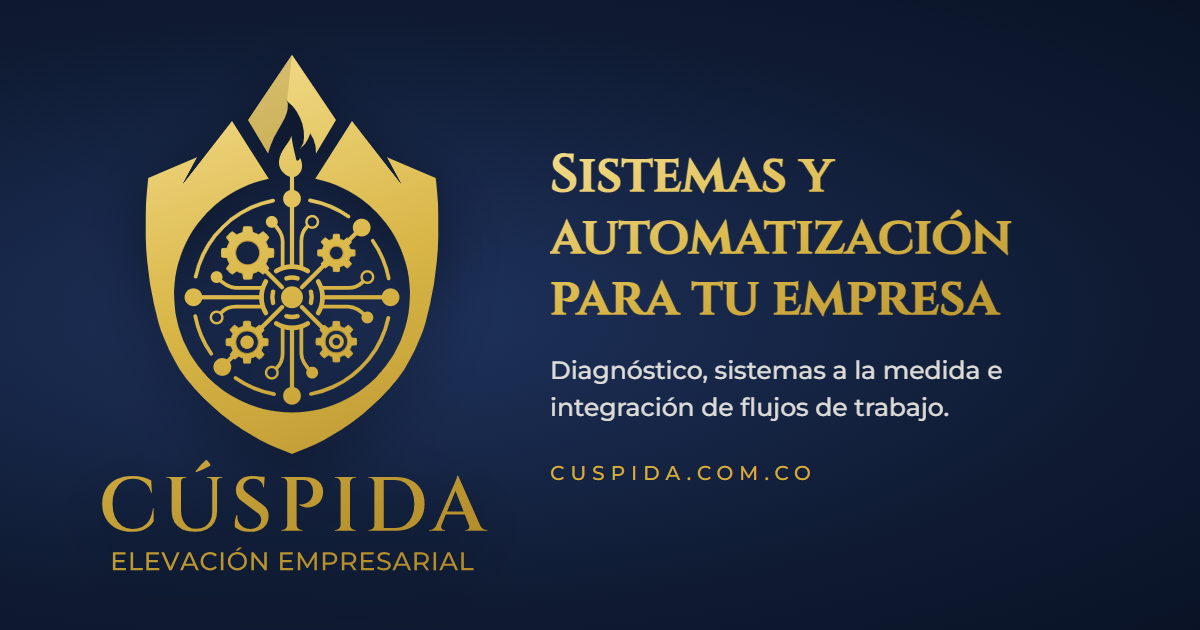
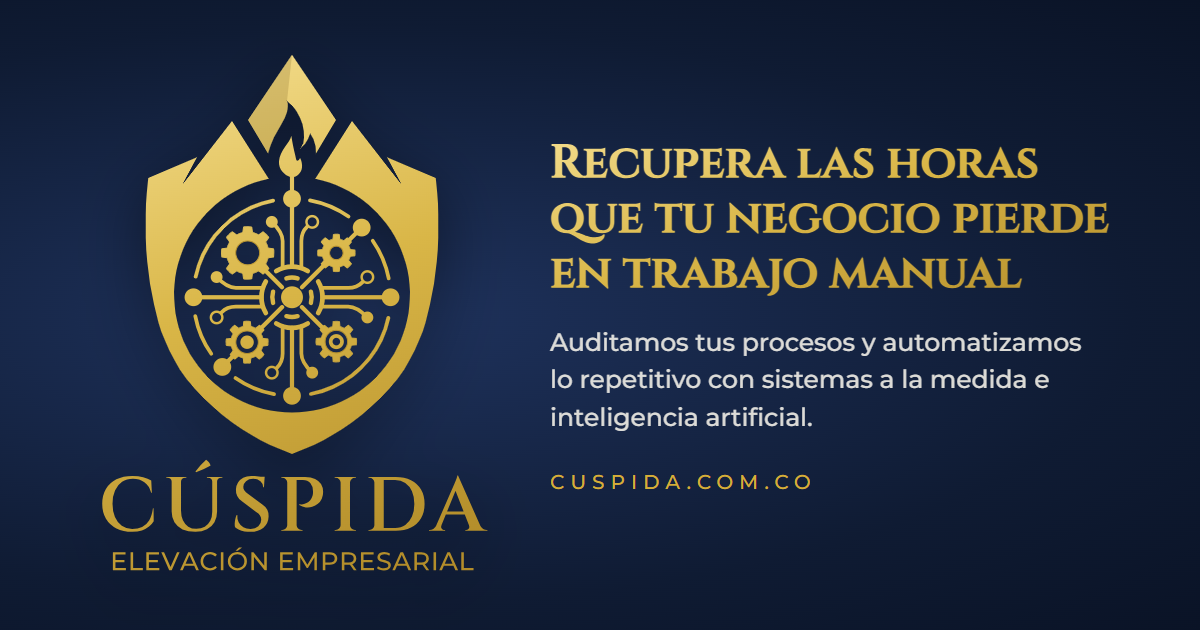
Reescribir los textos del sitio con enfoque en beneficios
Portada con el título "Recupera las horas que tu negocio pierde en trabajo manual",
sección de problema, tres pilares explicados como resultados, casos de uso ilustrativos
(sin cifras inventadas) y llamado final. La palabra "diagnóstico" pasa a "auditoría" y la
primera reunión se presenta sin costo; la auditoría ($100.000) se descuenta del proyecto.

Changed region(s): [[0.4625, 0.2111, 0.925, 0.6937], [0.4625, 0.7238, 0.6783, 0.7841]]

diff --git a/sitio/src/content.ts b/sitio/src/content.ts
@@ -1,10 +1,20 @@
-import { waHref, agendaHref } from './config';
+import { waHref } from './config';
+
+// Precio de la auditoría (se descuenta completo del proyecto si el cliente contrata). Cámbialo solo aquí.
+export const precioAuditoria = '$100.000';
+
+// ---- El problema ----
+export const problema = {
+  sobre: 'El problema',
+  titulo: '¿Tu negocio depende de que alguien se acuerde de todo?',
+  giro: 'Hay otra forma de operar: que lo repetitivo se haga solo y tu equipo se dedique a vender y a crecer.',
+};
 
 export const tarjetas = [
-  { icono: 'lupa', titulo: 'Primero, entender tu empresa', cuerpo: 'Antes de proponerte algo, escuchamos. Analizamos cómo trabaja hoy tu empresa y te entregamos un diagnóstico claro: qué funciona, qué te está frenando y por dónde conviene empezar.' },
-  { icono: 'diana', titulo: '¿Ya sabes qué está fallando?', cuerpo: 'Si ya detectaste un problema en tu proceso, lo resolvemos contigo. Buscamos la solución más sencilla y eficiente, no la más cara ni la más complicada.' },
-  { icono: 'engranaje', titulo: 'Herramientas hechas a tu medida', cuerpo: 'Diseñamos la tecnología que tu negocio necesita: punto de venta (POS), CRM, ERP, páginas web y más. Se adaptan a tu forma de trabajar, y no al revés.' },
-  { icono: 'chispa', titulo: 'Inteligencia artificial que trabaja contigo', cuerpo: 'Conectamos tus herramientas con inteligencia artificial para que lo repetitivo se haga solo: resúmenes de reuniones, reportes, seguimiento a clientes. La IA hace el trabajo pesado; las decisiones siguen siendo tuyas.' },
+  { icono: 'doc', titulo: '¿Tus datos viven en mil archivos?', cuerpo: 'Reunimos tu información en un solo sistema, siempre al día, para que sepas cómo va tu negocio sin tener que preguntarle a nadie.' },
+  { icono: 'engranaje', titulo: '¿Tu equipo copia y pega todo el día?', cuerpo: 'Conectamos tus herramientas para que la información pase sola de una a otra. Menos errores y horas devueltas a tu equipo.' },
+  { icono: 'chat', titulo: '¿Tus clientes esperan horas una respuesta?', cuerpo: 'Asistentes con inteligencia artificial atienden por WhatsApp a cualquier hora y pasan el caso a una persona solo cuando hace falta.' },
+  { icono: 'chispa', titulo: '¿Para crecer tendrías que contratar más gente?', cuerpo: 'Automatizamos lo repetitivo para que tu operación crezca sin que el desorden ni los costos crezcan con ella.' },
 ];
 
 export const hosting = {
@@ -15,18 +25,62 @@ export const hosting = {
   ],
 };
 
+// ---- Servicios: tres pilares explicados como beneficios ----
+export const pilares = {
+  sobre: 'Cómo te ayudamos',
+  titulo: 'Tres formas de recuperar tu tiempo',
+  texto: 'Elige por dónde empezar. Todo se cotiza con precio cerrado, por escrito, después de la auditoría.',
+};
+
 export const caminos = [
-  { estado: 'Disponible', icono: 'engranaje', titulo: 'Sistemas a la medida', texto: 'Cuando tu empresa necesita algo que no existe, lo construimos contigo.', precio: 'Presupuesto cerrado después del diagnóstico', boton: 'Agenda tu diagnóstico', href: agendaHref, estilo: 'oro' },
-  { estado: 'Disponible', icono: 'diana', titulo: 'Integración de flujos de trabajo', texto: 'Conectamos las herramientas que ya usas para que la información pase sola de una a otra.', precio: 'Desde $100.000', boton: 'Cuéntanos tu proceso', href: waHref('Hola, quiero contarles mi proceso para ver cómo automatizarlo.'), estilo: 'linea' },
-  { estado: 'Próximamente', icono: 'doc', titulo: 'Sistemas listos', texto: 'Estamos preparando sistemas ya construidos para que empieces rápido, sin esperar un desarrollo.', precio: 'Precio fijo, muy pronto', boton: 'Avísame cuando estén', href: '#contacto', interes: 'Quiero que me avisen cuando estén listos los sistemas.', estilo: 'linea' },
+  {
+    icono: 'engranaje', titulo: 'Un sistema hecho a tu medida',
+    texto: 'Diseñamos el punto de venta, el inventario o el control que tu negocio realmente necesita, no uno genérico al que tengas que adaptarte.',
+    resultado: 'Menos errores, información siempre al día y decisiones con datos reales, no con corazonadas.',
+    boton: 'Cuéntanos qué necesitas', href: waHref('Hola, necesito un sistema hecho a la medida para mi negocio.'), estilo: 'oro',
+  },
+  {
+    icono: 'diana', titulo: 'Tus herramientas hablando entre sí',
+    texto: 'Conectamos tu WhatsApp, tu CRM, tu facturación y tus hojas de cálculo para que la información pase sola de una a otra, sin que nadie la copie a mano.',
+    resultado: 'Horas recuperadas cada semana y ningún dato perdido por el camino.',
+    boton: 'Cuéntanos tu proceso', href: waHref('Hola, quiero conectar mis herramientas y automatizar un proceso.'), estilo: 'linea',
+  },
+  {
+    icono: 'chispa', titulo: 'Inteligencia artificial que trabaja por ti',
+    texto: 'Asistentes que responden a tus clientes a cualquier hora, clasifican solicitudes y preparan reportes. Cuando haga falta, con modelos que corren en tu propia infraestructura para que tu información no salga de tu control.',
+    resultado: 'Respuesta inmediata a tus clientes y un equipo dedicado a lo que de verdad aporta.',
+    boton: 'Cuéntanos cómo atiendes hoy', href: waHref('Hola, quiero un asistente con inteligencia artificial para atender a mis clientes.'), estilo: 'linea',
+  },
 ];
 
+export const listos = {
+  texto: 'Próximamente: sistemas ya construidos para que empieces rápido, sin esperar un desarrollo.',
+  boton: 'Avísame cuando estén',
+  interes: 'Quiero que me avisen cuando estén listos los sistemas.',
+};
+
+// ---- Cómo trabajamos ----
 export const pasos = [
-  { titulo: 'Primer contacto', texto: 'Nos cuentas tu caso por WhatsApp, en unos minutos y sin costo.' },
-  { titulo: 'Diagnóstico', texto: 'Sesión de trabajo. Su valor se descuenta completo de tu proyecto.' },
-  { titulo: 'Construcción', texto: 'Entregas parciales que puedes probar.' },
+  { titulo: 'Reunión inicial, sin costo', texto: 'Nos cuentas cómo trabajas y qué te frena. En unos minutos sabrás si podemos ayudarte.' },
+  { titulo: 'Auditoría', texto: `Revisamos tu operación a fondo: qué funciona, qué falla y qué se puede mejorar. Si ya sabes qué falla, lo investigamos hasta la raíz. Cuesta ${precioAuditoria} y se descuenta completa si contratas.` },
+  { titulo: 'Construcción', texto: 'Entregas parciales que puedes probar mientras avanzamos.' },
   { titulo: 'Acompañamiento', texto: 'Capacitación, soporte, hosting y respaldos.' },
 ];
+
+// ---- Casos de uso ----
+// Todavía no hay cifras medidas. Son ejemplos de lo que se puede automatizar, no resultados de clientes.
+// Cuando existan casos reales con números, reemplaza estas tarjetas y cambia la etiqueta.
+export const casos = {
+  sobre: 'Casos de uso',
+  titulo: 'Lo que cambia cuando tu operación se automatiza',
+  etiqueta: 'Ejemplo ilustrativo',
+  nota: 'Estamos documentando nuestros primeros casos con cifras reales. Los publicaremos aquí.',
+  lista: [
+    { sector: 'Comercio y punto de venta', antes: 'Cuadras caja e inventario a mano al cierre del día, con diferencias que nadie sabe explicar.', despues: 'El cierre se hace solo: caja, inventario y ventas del día en un reporte listo para revisar.' },
+    { sector: 'Atención por WhatsApp', antes: 'Clientes escribiendo a toda hora y mensajes que se quedan sin respuesta hasta el día siguiente.', despues: 'Un asistente responde al instante, toma el pedido o la reserva y avisa a una persona solo cuando hace falta.' },
+    { sector: 'Facturación y administración', antes: 'Facturas digitadas una por una, con errores que se descubren tarde.', despues: 'La información pasa sola de la venta a la factura y al reporte, sin copiar nada.' },
+  ],
+};
 
 export const compromisos = [
   { icono: 'llave', titulo: 'Lo que construimos es tuyo', texto: 'El sistema y tus datos te pertenecen.' },
@@ -54,8 +108,9 @@ export const trabajos = [
 ];
 
 export const faqs = [
-  { q: '¿Cuánto cuesta y de qué depende el precio?', a: 'Depende del alcance. La integración de flujos de trabajo parte desde $100.000. Los sistemas a la medida se cotizan con precio cerrado, por escrito, después del diagnóstico. El diagnóstico tiene un valor que se descuenta completo del proyecto si decides contratar.' },
-  { q: '¿Cuánto tarda un proyecto?', a: 'Depende de su tamaño. Después del diagnóstico te entregamos un cronograma por escrito, con entregas parciales para que pruebes lo construido mientras avanzamos.' },
+  { q: '¿Cuánto cuesta y de qué depende el precio?', a: `La primera reunión no tiene costo. La auditoría cuesta ${precioAuditoria} y se descuenta completa del proyecto si decides contratar. Los proyectos se cotizan con precio cerrado, por escrito, después de la auditoría: así sabes cuánto pagarás antes de empezar.` },
+  { q: '¿Qué incluye la auditoría?', a: 'Es el trabajo completo de entender tu operación: revisamos contigo cómo trabajas hoy, qué funciona, qué falla y qué se puede mejorar. Si ya sabes qué hay que arreglar, lo investigamos a fondo hasta dar con la causa. Al final recibes un informe con prioridades y una propuesta con presupuesto cerrado.' },
+  { q: '¿Cuánto tarda un proyecto?', a: 'Depende de su tamaño. Después de la auditoría te entregamos un cronograma por escrito, con entregas parciales para que pruebes lo construido mientras avanzamos.' },
   { q: '¿Necesito saber de tecnología?', a: 'No. Nos explicas cómo trabaja tu negocio con tus palabras y nosotros nos encargamos de lo técnico. También te capacitamos para que tú y tu equipo usen el sistema con confianza.' },
   { q: 'Ya uso Excel u otro sistema, ¿hay que empezar de cero?', a: 'No. Partimos de lo que ya tienes: podemos importar tus datos y conectar las herramientas que uses, para que no repitas trabajo.' },
   { q: '¿De quién es el sistema y de quién son los datos?', a: 'Tuyos. Lo que construimos para ti y la información de tu negocio te pertenecen.' },
@@ -63,9 +118,10 @@ export const faqs = [
 ];
 
 export const enlaces = [
-  { href: '#servicios', texto: 'Servicios' },
+  { href: '#caminos', texto: 'Servicios' },
   { href: '#hosting', texto: 'Hosting' },
   { href: '#proceso', texto: 'Cómo trabajamos' },
+  { href: '#casos', texto: 'Casos' },
   { href: '#preguntas', texto: 'Preguntas' },
   { href: '#contacto', texto: 'Contacto' },
 ];

diff --git a/sitio/src/styles/global.css b/sitio/src/styles/global.css
@@ -53,7 +53,8 @@ section[id] { scroll-margin-top: var(--cabecera); }
 .salto:focus { top: 12px; }
 
 /* ---- Portada: piezas insertadas con set:html (no reciben estilos con alcance) ---- */
-.hero { --B: min(61.8svh, 118vw); }
+/* Bloque del logo: emblema 61.8 %, y el resto repartido áureamente entre nombre y eslogan. Deja sitio al título y a los botones. */
+.hero { --B: min(54svh, 100vw, 600px); }
 .hero__emblema { height: calc(var(--B) * .618); width: auto; flex: none; overflow: visible; filter: drop-shadow(0 18px 38px rgba(0, 0, 0, .5)); }
 .hero__emblema [id^='engranaje-'] { transform-box: fill-box; transform-origin: center; }
 
